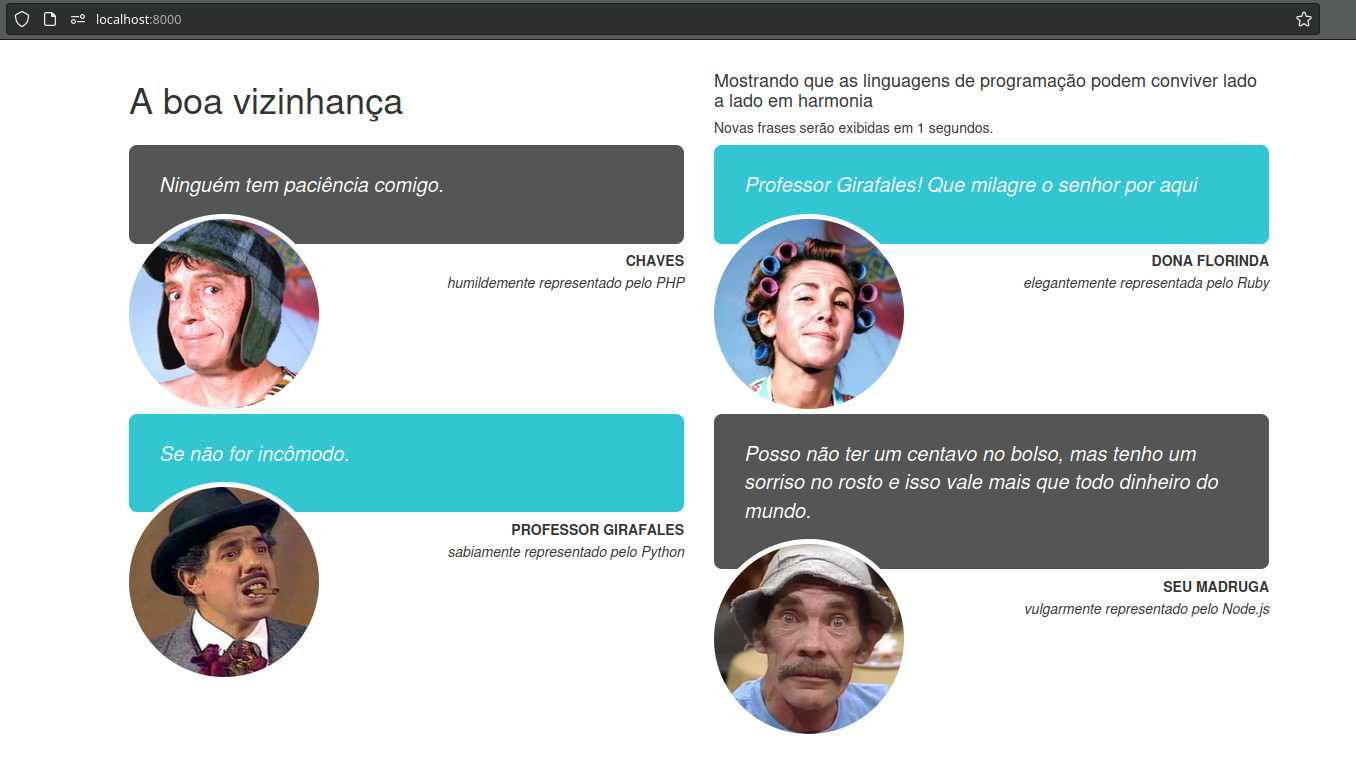
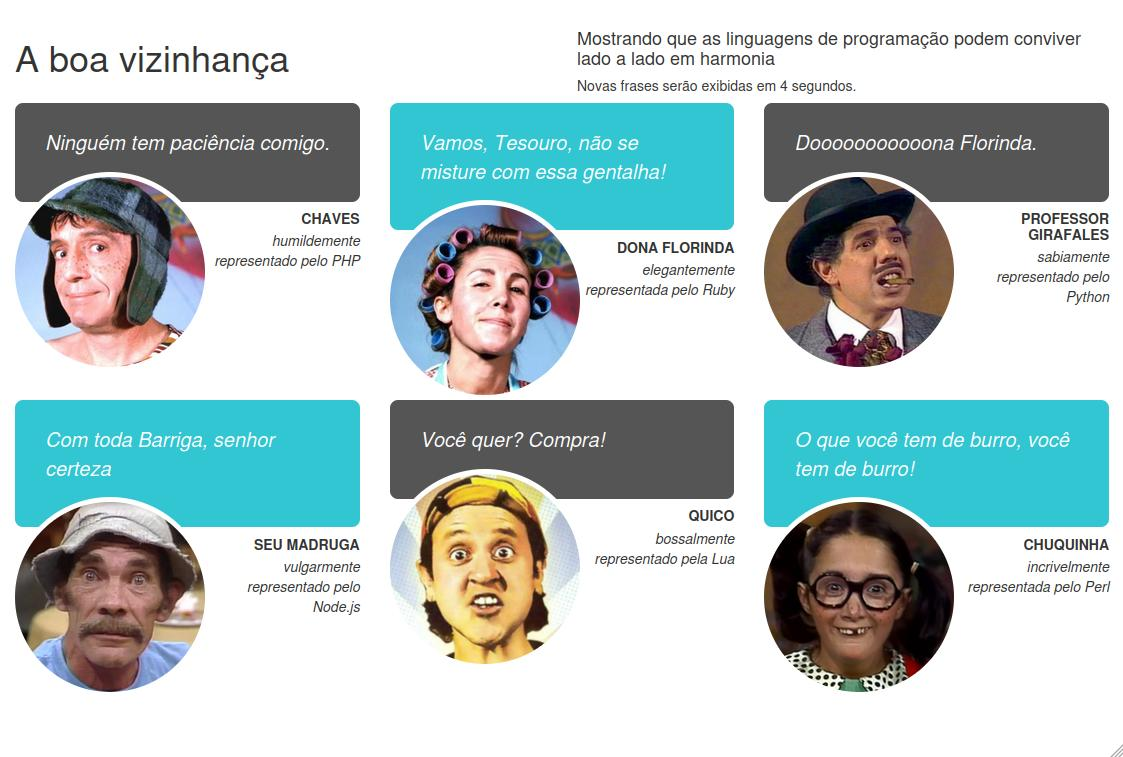
Updated frontend

diff --git a/frontend/index.html b/frontend/index.html
@@ -224,6 +224,21 @@
             <p>bossalmente representado pela Lua</p>
           </div>
         </div>
+
+        <div class="col-md-4 margin-btm-150">
+          <div class="quote green" >
+            <blockquote>
+              <p id="person6"></p>
+            </blockquote>
+          </div>
+          <div class="quote-footer text-right">
+            <div class="quote-author-img">
+              <img src="img/chiquinha.png" alt>
+            </div>
+            <h4>Chiquinha</h4>
+            <p>incrivelmente representada pelo Perl</p>
+          </div>
+        </div>
       </div>
     </div>
     <script src="https://code.jquery.com/jquery-1.10.2.min.js"></script>
@@ -250,6 +265,7 @@
           loadPhrase("http://localhost:8003/", "person3");
           loadPhrase("http://localhost:8004/", "person4");
           loadPhrase("http://localhost:8005/", "person5");
+          loadPhrase("http://localhost:8006/", "person6");
         }
 
         let countdown = 7;
